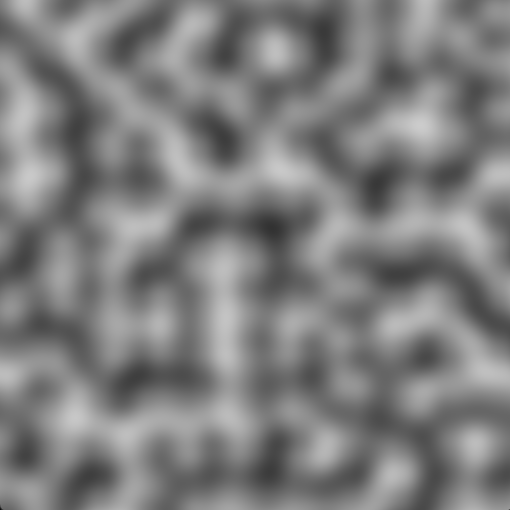
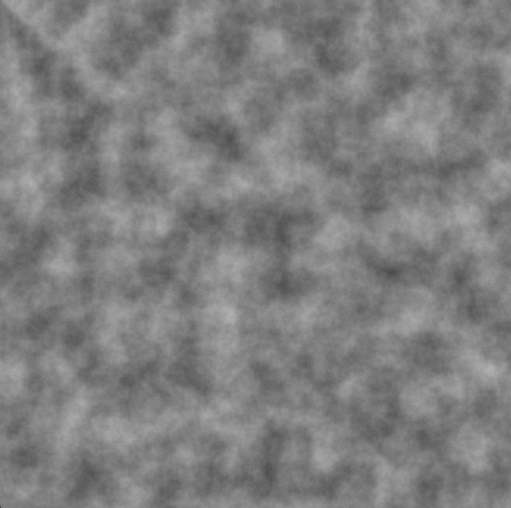
Add fbm() for more detailed noise

diff --git a/src/main.cpp b/src/main.cpp
@@ -1,8 +1,10 @@
 #include <SFML/Graphics.hpp>
 
-#include "include/PerlinNoise.hpp"
+#include "PerlinNoise.hpp"
 
 #include <cstdint>
+
+#include <iostream>
 
 constexpr unsigned int WIDTH = 512;
 constexpr unsigned int HEIGHT = 512;
@@ -19,7 +21,7 @@ int main() {
 			float nx = x * 0.02f;
 			float ny = y * 0.02f;
 
-			float value = noise.sample(nx, ny);
+			float value = noise.fbm(nx, ny);
 
 			value = ((value + 1.f) * 0.5f);
 
@@ -29,7 +31,10 @@ int main() {
 	}
 
 	sf::Texture texture;
-	texture.loadFromImage(image);
+	if (!texture.loadFromImage(image)) {
+		std::cerr << "Couldn't load the image.\n";
+		return 1;
+	};
 
 	sf::Sprite sprite(texture);
 

diff --git a/src/PerlinNoise.cpp b/src/PerlinNoise.cpp
@@ -64,3 +64,24 @@ float PerlinNoise::sample(float x, float y) const {
 
     return lerp(nx0, nx1, v);
 }
+
+float PerlinNoise::fbm(float x, float y,
+    int octaves,
+    float lacunarity,
+    float persistence) const
+{
+    float value = 0.f;
+    float amplitude = 1.f;
+    float frequency = 1.f;
+    float maxValue = 0.f;
+
+    for (int i = 0; i < octaves; ++i) {
+        value += sample(x * frequency, y * frequency) * amplitude;
+        maxValue += amplitude;
+
+        amplitude *= persistence;
+        frequency *= lacunarity;
+    }
+    
+    return value / maxValue;
+}

diff --git a/include/PerlinNoise.hpp b/include/PerlinNoise.hpp
@@ -6,6 +6,11 @@ public:
 
 	float sample(float x, float y) const;
 
+	float fbm(float x, float y,
+		int octaves = 8,
+		float lacunarity = 2.f,
+		float persistence = 0.6f) const;
+
 private:
 	unsigned int m_seed;
 };
